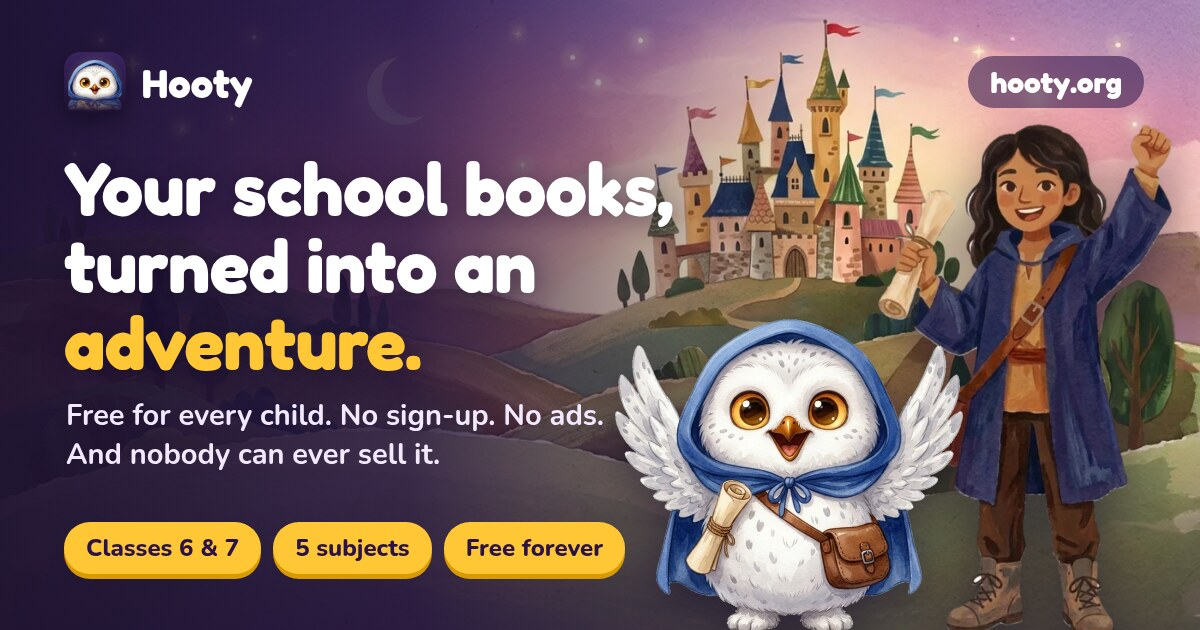
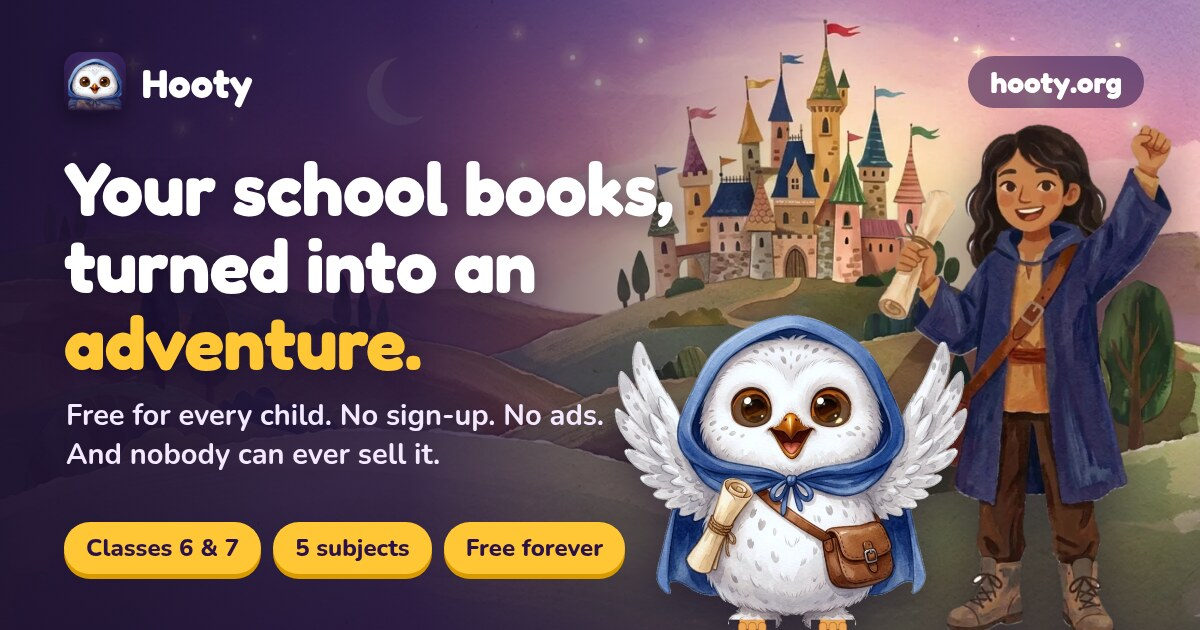
Hooty: cooler white feathers, dark brown eyes, small bare feet

Changed region(s): [[0.4933, 0.4825, 0.8017, 1.0], [0.0617, 0.0905, 0.0925, 0.1508]]

diff --git a/public/engine/core/theme.js b/public/engine/core/theme.js
@@ -87,23 +87,23 @@ export function setGuide(g) { guide = g === 'lumi' ? 'lumi' : 'hooty'; }
 export function currentGuide() { return guide; }
 export function guideName() { return guide === 'lumi' ? 'Lumi' : 'Hooty'; }
 export function guideAvatarSrc(which, mood = 'idle') {
-  return which === 'lumi' ? `./characters/lumi/avatar-${mood}.webp` : `./characters/hooty/snowy-avatar-${mood}.webp`;
+  return which === 'lumi' ? `./characters/lumi/avatar-${mood}.webp` : `./characters/hooty/snowy2-avatar-${mood}.webp`;
 }
 
 export function mascotImage(mood = 'idle') {
   if (!current) return null;
-  if (guide === 'hooty') return themeAsset(`../../characters/hooty/snowy-${mood === 'happy' || mood === 'wrong' ? mood : 'idle'}.webp`);
+  if (guide === 'hooty') return themeAsset(`../../characters/hooty/snowy2-${mood === 'happy' || mood === 'wrong' ? mood : 'idle'}.webp`);
   if (!current.mascot) return null;
   const src = current.mascot[mood] || current.mascot.idle;
   return src ? themeAsset(src) : null;
 }
 
 // Round head-and-shoulders version of the same pose (avatar-<mood>.webp beside explorer-<mood>.webp, or
-// snowy-avatar-<mood>.webp beside snowy-<mood>.webp), padded so a circular frame never clips the hair or the ears.
+// snowy2-avatar-<mood>.webp beside snowy2-<mood>.webp), padded so a circular frame never clips the hair or the ears.
 export function mascotAvatar(mood = 'idle') {
   const full = mascotImage(mood);
   if (!full) return null;
-  return guide === 'hooty' ? full.replace(/snowy-/, 'snowy-avatar-') : full.replace(/explorer-/, 'avatar-');
+  return guide === 'hooty' ? full.replace(/snowy2-/, 'snowy2-avatar-') : full.replace(/explorer-/, 'avatar-');
 }
 
 export function themeCopy(tone, key, fallback = '') {

diff --git a/tools/make-owl-icons.py b/tools/make-owl-icons.py
@@ -5,7 +5,7 @@ import os, subprocess
 
 ROOT = os.path.dirname(os.path.dirname(os.path.abspath(__file__)))
 ICONS = os.path.join(ROOT, "public", "assets", "icons")
-OWL = os.path.join(ROOT, "public", "characters", "hooty", "snowy-idle.webp")
+OWL = os.path.join(ROOT, "public", "characters", "hooty", "snowy2-idle.webp")
 
 def run(*a): subprocess.run(["magick", *a], check=True)
 

diff --git a/README.md b/README.md
@@ -1,6 +1,6 @@
 <div align="center">
 
-<img src="public/characters/hooty/snowy-happy.webp" alt="Hooty, a friendly owl in a blue cape with a satchel and a scroll, wings raised in a cheer" width="260">
+<img src="public/characters/hooty/snowy2-happy.webp" alt="Hooty, a friendly owl in a blue cape with a satchel and a scroll, wings raised in a cheer" width="260">
 
 # Hooty
 
@@ -114,7 +114,7 @@ To NCERT for the textbooks every lesson is built on, and to the photographers an
 
 <div align="center">
   <br>
-  <img src="public/characters/hooty/snowy-avatar-idle.webp" alt="Hooty's smiling face" width="84">
+  <img src="public/characters/hooty/snowy2-avatar-idle.webp" alt="Hooty's smiling face" width="84">
   <br>
   <sub>Made with love, for every child who ever asked "but why?"</sub>
 </div>
